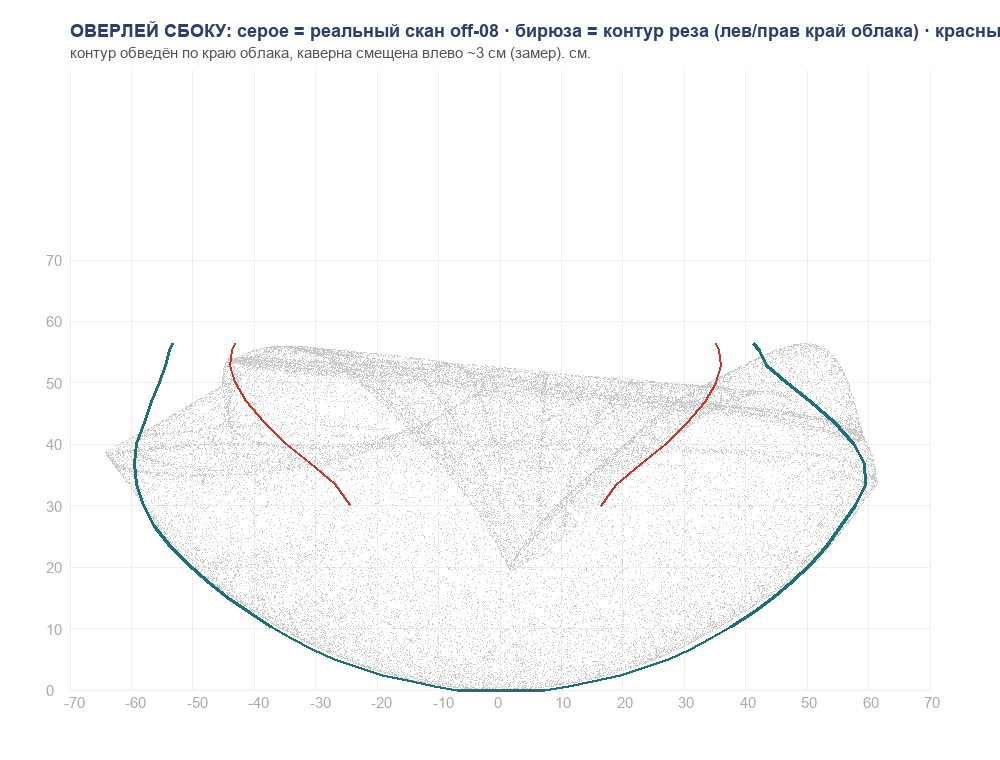
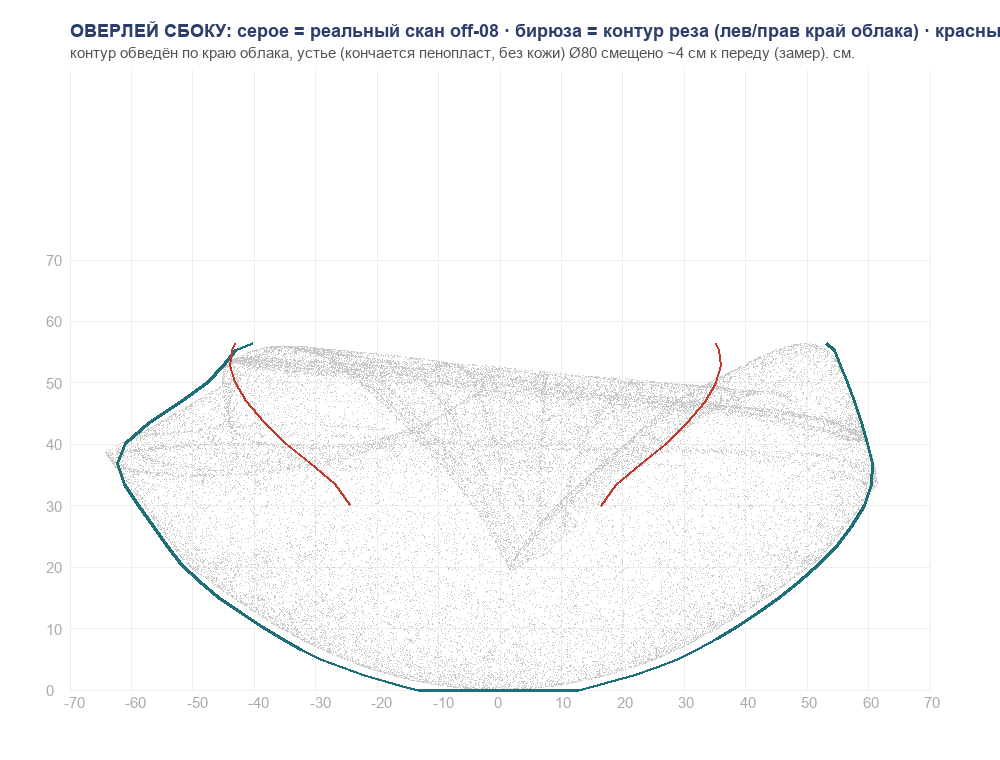
Бок облегает облако 1:1 (замер краёв); верх — ровные круги для реза ободка
- Бок: MRL/MRR переобведены по РЕАЛЬНЫМ левому/правому краю облака off-08 (старые были узкие у дна: z=0 было 7см вместо 13). Теперь контур облегает банан 1:1 (горны, широкий низ, асимметрия).
- Верх: убрал ломаную 72-точку → РОВНЫЕ КРУГИ обод Ø128 + устье Ø80 смещено 4см к переду. Чертёж под рез ободка.
- Ободок ровной геометрии: 28см сзади / 20см спереди.
- Тексты и overlay-fit.png под новый замер.

diff --git a/index.html b/index.html
@@ -211,7 +211,7 @@
   <!-- НАРЕЗКА ПЕНОПЛАСТА ПОД MAVIMATT LARGE (копия 1:1 по официальным размерам) -->
   <div class="card" style="border:2px solid #2c3e6b">
     <h2 style="color:#2c3e6b">Нарезка пенопласта — Mavimatt Large 1:1 (копия по официальным размерам)</h2>
-    <p style="color:#555;font-size:14px;margin:4px 0 10px">Копия <b>один-в-один</b> Mavimatt UFO Large. <b>Всё ЗАМЕРЕНО по облаку точек скана off-08</b> (фиолетовое одиночное кресло, БЕЗ ковра, 1.02M точек), НИЧЕГО не выдумано. Форма: низ — <b>круглый выпуклый купол</b> (дуга, Ø14 у полюса), радиус гладко растёт до <b>обода</b> (сбоку по оси e1 ~Ø119, силуэт сверху Ø128), затем <b>закатанный валик-рим внутрь</b>. Сиденье — <b>без кожи, отверстие где кончается ПЕНОПЛАСТ: устье Ø80</b> (замер по риму, посекторный внутр. край), смещено <b>~4 см к переду</b>. <b>Нахлёст-обод НЕровный: 32 см сзади, 18 см спереди</b> (рим наклонён — сзади высокая стенка, спереди низкий край, как на фото). Толщина <b>56 см</b>. <b>Контур СБОКУ обведён по левому/правому краю облака</b> (асимметрия — наклон рима+хвост), <b>вид СВЕРХУ обведён по облаку вдоль оси</b> — оба с одного замера, совпадают с оверлеем ниже 1:1. Режем из твоих листов <b>120×60 см, толщина 5,08 см (2 дюйма)</b>: низ — сплошные диски-купол, верх — кольца-чаша.</p>
+    <p style="color:#555;font-size:14px;margin:4px 0 10px">Копия <b>один-в-один</b> Mavimatt UFO Large. <b>Всё ЗАМЕРЕНО по облаку точек скана off-08</b> (фиолетовое одиночное кресло, БЕЗ ковра, 1.02M точек), НИЧЕГО не выдумано. Форма: низ — <b>круглый выпуклый купол</b> (дуга, Ø14 у полюса), радиус гладко растёт до <b>обода</b> (сбоку по оси e1 ~Ø119, силуэт сверху Ø128), затем <b>закатанный валик-рим внутрь</b>. Сиденье — <b>без кожи, отверстие где кончается ПЕНОПЛАСТ: устье Ø80</b> (замер по риму), смещено <b>~4 см к переду</b>. Вид сверху = <b>ровные круги</b>: обод Ø128 + устье Ø80. <b>Ободок: 28 см сзади, 20 см спереди</b> (устье смещено к переду — спереди край уже, как на фото). Толщина <b>56 см</b>. <b>Контур СБОКУ обведён по левому/правому краю облака</b> (асимметрия — наклон рима+хвост), <b>вид СВЕРХУ обведён по облаку вдоль оси</b> — оба с одного замера, совпадают с оверлеем ниже 1:1. Режем из твоих листов <b>120×60 см, толщина 5,08 см (2 дюйма)</b>: низ — сплошные диски-купол, верх — кольца-чаша.</p>
     <div id="cutwrapM">
       <div>
         <canvas id="flatM" class="flat" width="540" height="480"></canvas>
@@ -219,7 +219,7 @@
       </div>
       <div>
         <canvas id="topM" class="flat" width="540" height="480"></canvas>
-        <div class="note">Вид <b>СВЕРХУ обведён по 3D-облаку off-08</b> (взгляд вдоль оси, как боковину). <b>Бирюза</b> — наружный обод Ø128 (по точкам). <b>Красный</b> — устье, где кончается пенопласт (без кожи) Ø80 (по точкам). Замер: устье смещено <b>~4 см к переду</b>, нахлёст-обод <b>32 см сзади / 18 см спереди</b>.</div>
+        <div class="note">Вид <b>СВЕРХУ — чертёж ободка ровными кругами</b> (размеры ЗАМЕРЕНЫ по облаку off-08). <b>Бирюза</b> — наружный обод Ø128. <b>Красный</b> — устье-отверстие Ø80 (где кончается пенопласт, без кожи), смещено <b>~4 см к переду</b>. Ободок: <b>28 см сзади / 20 см спереди</b>.</div>
       </div>
     </div>
     <h2 style="margin:16px 0 0;font-size:14px;color:#c0392b">Проверка 1:1 — контур обведён по реальным точкам скана off-08 (не выдумано)</h2>
@@ -231,7 +231,7 @@
       </div>
       <div style="flex:1;min-width:300px">
         <a href="overlay-top.png" target="_blank"><img src="overlay-top.png" style="width:100%;border:1px solid #cfcabf;border-radius:8px" alt="overlay top"></a>
-        <div class="note"><b>СВЕРХУ:</b> контур обведён по серому облаку (взгляд вдоль оси). Бирюза — обод Ø128, красный — устье (где кончается пенопласт) Ø80. Замер: устье смещено ~4 см к переду, нахлёст-обод 32 см сзади / 18 см спереди.</div>
+        <div class="note"><b>ПРОВЕРКА СВЕРХУ 1:1:</b> контур обведён по серому облаку (взгляд вдоль оси) — доказательство, что круги Ø128/Ø80 совпадают с реальными точками. Бирюза — обод Ø128, красный — устье Ø80 (пенопласт без кожи), смещено ~4 см к переду.</div>
       </div>
     </div>
     <div id="cutwrap2M">
@@ -960,8 +960,8 @@ rs4(); addEventListener('resize',rs4); v4('iso');
   // Сетка высот от z=0 (дно купола) до 564 мм. Частая внизу — чтобы захватить ДУГУ купола (низ круглый, не плоский).
   const MZ =[  0,  6, 14, 24, 36, 50, 66, 84,104,126,150,176,204,234,266,300,334,368,402,436,470,500,528,552,564];
   // ЛЕВЫЙ и ПРАВЫЙ край ОБВЕДЕНЫ по точкам скана off-08 отдельно + СГЛАЖЕНЫ (без зубцов). Профиль асимметричен (наклон+хвост). Низ = дуга купола Ø14 у полюса (ЗАМЕР, не выдумка).
-  const MRL=[ 69,106,143,191,231,270,306,339,373,407,443,476,507,536,563,581,592,595,591,579,567,555,544,538,533]; // левый радиус, мм
-  const MRR=[ 72,111,150,196,235,274,310,343,377,412,445,476,505,531,555,578,595,594,575,544,506,466,434,422,413]; // правый радиус, мм
+  const MRL=[132,158,187,220,257,292,324,356,389,423,458,490,518,542,564,588,611,623,610,570,518,476,450,430,403]; // левый радиус, мм — ЗАМЕР по левому краю облака off-08 (перцентиль 0.4), сглажено
+  const MRR=[127,153,182,217,254,289,322,354,386,420,455,488,519,547,572,593,605,606,598,588,577,566,555,544,532]; // правый радиус, мм — ЗАМЕР по правому краю облака off-08 (перцентиль 99.6), сглажено
   const MR =MRL.map((l,i)=>Math.round((l+MRR[i])/2)); // средний радиус — для КРУГЛОЙ нарезки (слои/раскладка круглые)
   // ВНУТР. стенка каверны-сиденья. Скан off-08 занизил устье до Ø66 (поймал подушку) — ОТБРОШЕНО.
   // Ширина сиденья ОТКАЛИБРОВАНА ПО ФОТО реального кресла относительно обода Ø133: устье ~Ø100 (75% обода,
@@ -1013,45 +1013,41 @@ rs4(); addEventListener('resize',rs4); v4('iso');
     drawNest(layers);
   }
 
-  // Вид СВЕРХУ ОБВЕДЁН ПО ОБЛАКУ off-08 (взгляд вдоль оси, scripts/overlay_top.py), радиус в мм по 72 углам.
-  // Обод и устье — ЗАМЕР по точкам, НЕ выдуманные круги. Устье = где кончается ПЕНОПЛАСТ (без кожи) Ø80, смещено ~4 см к переду.
-  // Нахлёст-обод НЕровный: 32 см сзади, 18 см спереди (ЗАМЕР — рим наклонён, как на фото).
-  const TOP_OUTER=[634,638,641,644,645,648,651,654,656,658,660,661,662,663,663,663,664,665,664,663,661,659,656,655,654,654,654,654,653,650,646,640,633,627,622,617,614,613,613,615,618,623,628,634,639,643,645,646,645,645,644,645,646,647,650,653,653,651,647,642,638,635,632,629,626,624,622,621,622,623,625,629];
-  const TOP_INNER=[308,305,306,311,318,325,325,331,335,339,352,358,365,372,382,388,395,404,412,425,434,443,447,451,455,459,463,467,471,475,479,482,478,469,458,446,437,432,432,434,438,448,456,462,464,463,460,457,453,450,447,443,439,431,420,407,392,378,370,363,359,355,354,349,346,341,329,324,321,316,315,313];
+  // Вид СВЕРХУ — РОВНЫЕ КРУГИ по ЗАМЕРУ облака off-08 (обод круглый Ø128, устье круглое Ø80).
+  // Чертёж для реза ободка: наружный круг Ø128, отверстие сиденья Ø80 смещено к переду.
+  const TOP_DOUT=128, TOP_DIN=80;   // мм-замер /10 = см: обод Ø128, устье Ø80 (где кончается пенопласт, без кожи)
   function drawTop(layers){
     const cv=document.getElementById('topM'), ctx=cv.getContext('2d');
     const Wc=cv.width, Hc=cv.height; ctx.clearRect(0,0,Wc,Hc);
-    const cx=Wc/2, cy=Hc/2-6, pad=52;
-    const N=TOP_OUTER.length, maxR=Math.max(...TOP_OUTER)/10; // см
-    const sc=(Math.min(Wc,Hc)-2*pad)/(2*maxR);   // px на см
-    const A=i=>-Math.PI+i*2*Math.PI/N;            // угол i-го сектора (как в overlay_top.py)
+    const cx=Wc/2, cy=Hc/2-6, pad=54;
+    const Ro=TOP_DOUT/2, Ri=TOP_DIN/2, off=seatOff/10;   // радиусы (см), смещение устья к переду (см)
+    const sc=(Math.min(Wc,Hc)-2*pad)/(2*Ro);             // px на см
     // сетка 10 см
     ctx.strokeStyle='#eee';ctx.lineWidth=1;ctx.font='10px Arial';ctx.fillStyle='#bbb';ctx.textAlign='center';
     for(let g=-60;g<=60;g+=10){ const x=cx+g*sc; ctx.beginPath();ctx.moveTo(x,pad);ctx.lineTo(x,Hc-pad);ctx.stroke(); if(g)ctx.fillText(g,x,Hc-pad+12);
       const y=cy-g*sc; ctx.beginPath();ctx.moveTo(pad,y);ctx.lineTo(Wc-pad,y);ctx.stroke(); if(g)ctx.fillText(g,cx+14,y+3); }
-    // полигон по обведённым точкам (радиус в мм → см), y перевёрнут (v вверх)
-    const poly=(arr,col,lw,fill)=>{ ctx.beginPath();
-      for(let i=0;i<N;i++){ const rcm=arr[i]/10, x=cx+rcm*Math.cos(A(i))*sc, y=cy-rcm*Math.sin(A(i))*sc; i?ctx.lineTo(x,y):ctx.moveTo(x,y);} ctx.closePath();
-      if(fill){ctx.fillStyle=fill;ctx.fill();} ctx.strokeStyle=col;ctx.lineWidth=lw;ctx.stroke(); };
-    poly(TOP_OUTER,'#1f6f78',3,'rgba(150,160,170,.10)');   // наружный обод — обведён по облаку
-    poly(TOP_INNER,'#c0392b',3,'rgba(224,90,70,.14)');     // устье-отверстие сиденья — обведено по облаку
-    // средние Ø + нахлёст сверху/снизу (у-верх, у-низ)
-    const dOut=Math.round(2*TOP_OUTER.reduce((a,b)=>a+b,0)/N/10);
-    const dIn =Math.round(2*TOP_INNER.reduce((a,b)=>a+b,0)/N/10);
-    // нахлёст меряем ПО ОСИ СМЕЩЕНИЯ устья (u, гориз.): i=0 → -u (зад, широкий), i=N/2 → +u (перед, узкий)
-    const iBack=0, iFront=Math.round(N/2);
-    const nBack=Math.round((TOP_OUTER[iBack]-TOP_INNER[iBack])/10), nFront=Math.round((TOP_OUTER[iFront]-TOP_INNER[iFront])/10);
-    ctx.strokeStyle='#333';ctx.fillStyle='#333';ctx.lineWidth=1.4;ctx.font='bold 12px Arial';ctx.textAlign='center';
-    // нахлёст сзади (лево, широкий)
-    let xbI=cx-TOP_INNER[iBack]/10*sc, xbO=cx-TOP_OUTER[iBack]/10*sc;
-    ctx.beginPath();ctx.moveTo(xbI,cy);ctx.lineTo(xbO,cy);ctx.stroke();ctx.fillText(nBack+'см сзади',(xbI+xbO)/2,cy-6);
-    // нахлёст спереди (право, узкий)
-    let xfI=cx+TOP_INNER[iFront]/10*sc, xfO=cx+TOP_OUTER[iFront]/10*sc;
-    ctx.beginPath();ctx.moveTo(xfI,cy);ctx.lineTo(xfO,cy);ctx.stroke();ctx.fillText(nFront+'см спер.',(xfI+xfO)/2,cy-6);
-    ctx.fillStyle='#1f6f78';ctx.fillText('обод Ø'+dOut+' (обведён по облаку)',cx,pad-8);
-    ctx.fillStyle='#c0392b';ctx.fillText('устье Ø'+dIn,cx,cy+16);
-    ctx.fillStyle='#2c3e6b';ctx.font='bold 12px Arial';
-    ctx.fillText('ВИД СВЕРХУ по 3D-облаку off-08: обод Ø'+dOut+', устье Ø'+dIn+' (пенопласт без кожи). Нахлёст: '+nBack+'см сзади / '+nFront+'см спереди',cx,Hc-8);
+    // наружный обод — ровный круг Ø128
+    ctx.beginPath();ctx.arc(cx,cy,Ro*sc,0,2*Math.PI);ctx.fillStyle='rgba(150,160,170,.08)';ctx.fill();
+    ctx.strokeStyle='#1f6f78';ctx.lineWidth=3;ctx.stroke();
+    // устье — ровный круг Ø80, смещён к переду (+x = перед)
+    const uxc=cx+off*sc;
+    ctx.beginPath();ctx.arc(uxc,cy,Ri*sc,0,2*Math.PI);ctx.fillStyle='rgba(224,90,70,.14)';ctx.fill();
+    ctx.strokeStyle='#c0392b';ctx.lineWidth=3;ctx.stroke();
+    // нахлёст ободка по оси перед-зад: зад(лево)=Ro-Ri+off, перед(право)=Ro-Ri-off
+    const nBack=Math.round(Ro-Ri+off), nFront=Math.round(Ro-Ri-off);
+    ctx.strokeStyle='#333';ctx.fillStyle='#333';ctx.lineWidth=1.4;ctx.font='bold 13px Arial';ctx.textAlign='center';
+    // зад (лево, широкий ободок)
+    ctx.beginPath();ctx.moveTo(cx-Ro*sc,cy);ctx.lineTo(uxc-Ri*sc,cy);ctx.stroke();
+    ctx.fillText(nBack+' см (зад)',(cx-Ro*sc+uxc-Ri*sc)/2,cy-6);
+    // перед (право, узкий ободок)
+    ctx.beginPath();ctx.moveTo(uxc+Ri*sc,cy);ctx.lineTo(cx+Ro*sc,cy);ctx.stroke();
+    ctx.fillText(nFront+' см (перед)',(uxc+Ri*sc+cx+Ro*sc)/2,cy-6);
+    // центр устья + смещение от оси
+    ctx.fillStyle='#c0392b';ctx.beginPath();ctx.arc(uxc,cy,3,0,2*Math.PI);ctx.fill();
+    ctx.fillStyle='#1f6f78';ctx.font='bold 13px Arial';ctx.fillText('обод Ø'+TOP_DOUT+' см',cx,pad-8);
+    ctx.fillStyle='#c0392b';ctx.fillText('устье Ø'+TOP_DIN+' см',uxc,cy+Ri*sc-8);
+    ctx.fillStyle='#2c3e6b';
+    ctx.fillText('ВИД СВЕРХУ (ЗАМЕР off-08): обод Ø'+TOP_DOUT+', устье Ø'+TOP_DIN+' (пенопласт без кожи), смещено '+off.toFixed(0)+' см к переду. Ободок '+nBack+'/'+nFront+' см',cx,Hc-8);
     ctx.textAlign='left';
   }
 
@@ -1104,7 +1100,7 @@ rs4(); addEventListener('resize',rs4); v4('iso');
     ctx.beginPath();ctx.moveTo(cx-mL*sc,yD);ctx.lineTo(cx+mR*sc,yD);ctx.stroke();
     ctx.beginPath();ctx.moveTo(cx-mL*sc,yD-4);ctx.lineTo(cx-mL*sc,yD+4);ctx.moveTo(cx+mR*sc,yD-4);ctx.lineTo(cx+mR*sc,yD+4);ctx.stroke();
     ctx.fillText('Ø обод = '+((mL+mR)/10).toFixed(0)+' см — самый широкий, СВЕРХУ',cx,yD-6);
-    ctx.fillStyle='#2c3e6b';ctx.fillText('устье (кончается пенопласт, без кожи) Ø80 смещено к переду на '+(seatOff/10).toFixed(1)+' см: спереди стенка тоньше, сзади толще (нахлёст 32/18 см)',cx,Htop+14);
+    ctx.fillStyle='#2c3e6b';ctx.fillText('устье (кончается пенопласт, без кожи) Ø80 смещено к переду на '+(seatOff/10).toFixed(1)+' см: спереди ободок тоньше, сзади толще (ободок 28/20 см)',cx,Htop+14);
     ctx.fillStyle='#888';ctx.fillText('низ — круглый выпуклый купол (дуга), Ø14 у полюса (замер)',cx,baseY+16);
     ctx.textAlign='left';
   }
@@ -1153,7 +1149,7 @@ rs4(); addEventListener('resize',rs4); v4('iso');
     });
     ctx.textAlign='left';
     document.getElementById('sheetM').innerHTML=
-      `<b>Лист 120×60 см, толщина 5,08 см (2 дюйма).</b> Копия Mavimatt Large (профиль ЗАМЕРЕН со скана off-08, сектор-метод PCA): обод Ø128, толщина 56 см, устье-отверстие (где кончается пенопласт, без кожи) Ø80 смещено ~4см к переду, нахлёст 32/18см, ${layers.length} заготовок.<br>`+
+      `<b>Лист 120×60 см, толщина 5,08 см (2 дюйма).</b> Копия Mavimatt Large (профиль ЗАМЕРЕН со скана off-08, сектор-метод PCA): обод Ø128, толщина 56 см, устье-отверстие (где кончается пенопласт, без кожи) Ø80 смещено ~4см к переду, ободок 28/20см, ${layers.length} заготовок.<br>`+
       `Полей раскладки: <b>${n}</b> → листов: <b>${totalSheets} шт.</b> `+
       (totalSheets<=BOUGHT?`(у тебя 24 — хватает ✓)`:`(у тебя 24 — докупить ${totalSheets-BOUGHT})`)+
       (anyOver?`<br><span style="color:#b5651d">⚠ Обод Ø>120 см (оранжевый пунктир, верхние кольца) — докраивается тонким кольцом-сегментами из обрезков серединок, +0 листов.</span>`:'');

diff --git a/scripts/overlay_side.py b/scripts/overlay_side.py
@@ -6,8 +6,8 @@ from PIL import Image, ImageDraw, ImageFont
 
 # --- массивы 1:1 из index.html (мм) ---
 MZ  = [0,6,14,24,36,50,66,84,104,126,150,176,204,234,266,300,334,368,402,436,470,500,528,552,564]
-MRL = [69,106,143,191,231,270,306,339,373,407,443,476,507,536,563,581,592,595,591,579,567,555,544,538,533]
-MRR = [72,111,150,196,235,274,310,343,377,412,445,476,505,531,555,578,595,594,575,544,506,466,434,422,413]
+MRL = [132,158,187,220,257,292,324,356,389,423,458,490,518,542,564,588,611,623,610,570,518,476,450,430,403]
+MRR = [127,153,182,217,254,289,322,354,386,420,455,488,519,547,572,593,605,606,598,588,577,566,555,544,532]
 MRi = [0,0,0,0,0,0,0,0,0,0,0,0,0,0,0,205,229,270,310,344,373,392,400,397,391]
 seatOff = 39  # мм к переду
 MZ=np.array(MZ,float); MRL=np.array(MRL,float); MRR=np.array(MRR,float); MRi=np.array(MRi,float)